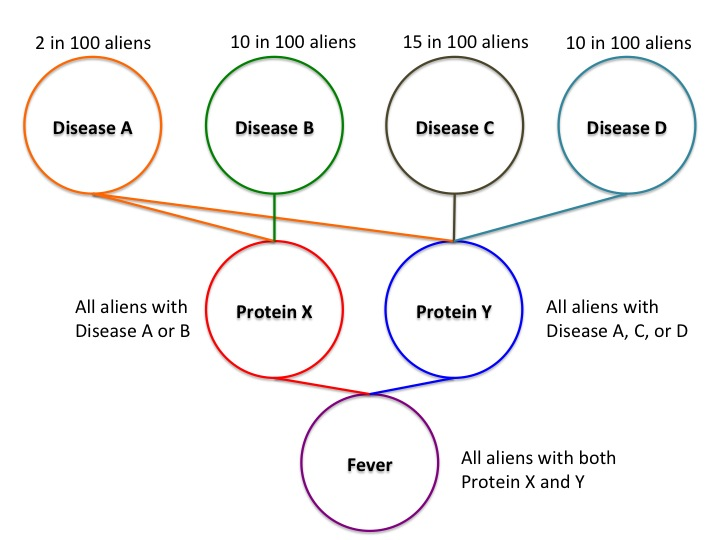
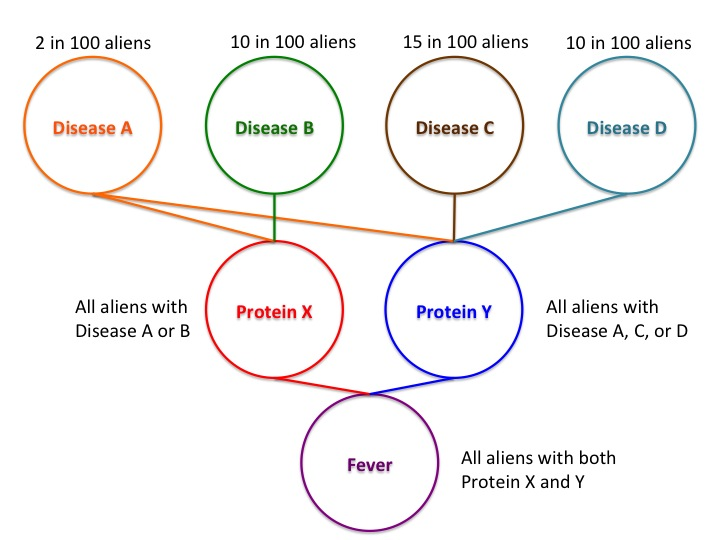
changed figure, added css ids for different specific colors

diff --git a/experiments/wednesday-expt/alien-diseases-expt.html b/experiments/wednesday-expt/alien-diseases-expt.html
@@ -86,13 +86,18 @@
         <div id="training" class="slide js">
         	<div>
 				<p class="small mtop">You are a doctor on an alien planet. You know that there are four different 
-				diseases that the aliens can have. Disease A causes abnormal proteins X and Y to be expressed 
-				in the alien's body. 2 in 100 aliens have Disease A. Disease B causes the abnormal protein 
-				X to be expressed. 10 in 100 aliens have Disease B. Diseases C and D both cause the abnormal 
-				protein Y to be expressed. 15 in 100 aliens have Disease C, and 10 in 100 aliens have Disease 
-				D. If both X and Y are expressed, the alien gets a fever. <p>
+				diseases that the aliens can have. <span id="orange">Disease A</span> causes two abnormal
+				proteins, <span id="red">Protein X</span> and <span id="blue">Protein Y</span>, 
+				to be expressed in the alien's body. 2 in 100 aliens have <span id="orange">Disease A</span>. 
+				<span id="green">Disease B</span> causes the abnormal protein <span id="red">Protein
+				X</span> to be expressed. 10 in 100 aliens have <span id="green">Disease B</span>. 
+				<span id="brown">Disease C</span> and <span id="steel-blue">Disease D</span> both cause the abnormal 
+				protein <span id="blue">Protein Y</span> to be expressed. 15 in 100 aliens 
+				have <span id="brown">Disease C</span>, and 10 in 100 aliens have <span id="steel-blue">Disease 
+				D</span>. If both <span id="red">Protein X</span> and <span id="blue">Protein Y</span> are 
+				expressed, the alien gets a <span id="purple">Fever</span>. <p>
 				
-				<img src="../_shared/css/images/alien-disease-fig.jpg" style="width: 70%; height: 65%; margin-top: 5px">
+				<img src="../_shared/css/images/alien-disease-fig.jpg" style="width: 70%; height: 65%; margin-top: 3px">
         	</div>
         	
           <br><button type="button" class="space" onclick="_s.button();">Continue</button>
@@ -102,13 +107,18 @@
         <div id="txt_box" class="slide js">
         	<div>
 				<p class="small mtop">You are a doctor on an alien planet. You know that there are four different 
-				diseases that the aliens can have. Disease A causes abnormal proteins X and Y to be expressed 
-				in the alien's body. 2 in 100 aliens have Disease A. Disease B causes the abnormal protein 
-				X to be expressed. 10 in 100 aliens have Disease B. Diseases C and D both cause the abnormal 
-				protein Y to be expressed. 15 in 100 aliens have Disease C, and 10 in 100 aliens have Disease 
-				D. If both X and Y are expressed, the alien gets a fever. <p>
+				diseases that the aliens can have. <span id="orange">Disease A</span> causes two abnormal
+				proteins, <span id="red">Protein X</span> and <span id="blue">Protein Y</span>, 
+				to be expressed in the alien's body. 2 in 100 aliens have <span id="orange">Disease A</span>. 
+				<span id="green">Disease B</span> causes the abnormal protein <span id="red">Protein
+				X</span> to be expressed. 10 in 100 aliens have <span id="green">Disease B</span>. 
+				<span id="brown">Disease C</span> and <span id="steel-blue">Disease D</span> both cause the abnormal 
+				protein <span id="blue">Protein Y</span> to be expressed. 15 in 100 aliens 
+				have <span id="brown">Disease C</span>, and 10 in 100 aliens have <span id="steel-blue">Disease 
+				D</span>. If both <span id="red">Protein X</span> and <span id="blue">Protein Y</span> are 
+				expressed, the alien gets a <span id="purple">Fever</span>. <p>
 				
-				<img src="../_shared/css/images/alien-disease-fig.jpg" style="width: 60%; height: 55%; margin-top: 5px">
+				<img src="../_shared/css/images/alien-disease-fig.jpg" style="width: 60%; height: 55%; margin-top: 3px">
 				
         		<p class="small mtop"><span class="why_question"></span><p>
         		<p>Because <input type="text" size="100" name="expl"/>.</p>
@@ -124,13 +134,18 @@
         <div id="radio_buttons" class="slide js" >
             <div>
 				<p class="small mtop">You are a doctor on an alien planet. You know that there are four different 
-				diseases that the aliens can have. Disease A causes abnormal proteins X and Y to be expressed 
-				in the alien's body. 2 in 100 aliens have Disease A. Disease B causes the abnormal protein 
-				X to be expressed. 10 in 100 aliens have Disease B. Diseases C and D both cause the abnormal 
-				protein Y to be expressed. 15 in 100 aliens have Disease C, and 10 in 100 aliens have Disease 
-				D. If both X and Y are expressed, the alien gets a fever. <p>
+				diseases that the aliens can have. <span id="orange">Disease A</span> causes two abnormal
+				proteins, <span id="red">Protein X</span> and <span id="blue">Protein Y</span>, 
+				to be expressed in the alien's body. 2 in 100 aliens have <span id="orange">Disease A</span>. 
+				<span id="green">Disease B</span> causes the abnormal protein <span id="red">Protein
+				X</span> to be expressed. 10 in 100 aliens have <span id="green">Disease B</span>. 
+				<span id="brown">Disease C</span> and <span id="steel-blue">Disease D</span> both cause the abnormal 
+				protein <span id="blue">Protein Y</span> to be expressed. 15 in 100 aliens 
+				have <span id="brown">Disease C</span>, and 10 in 100 aliens have <span id="steel-blue">Disease 
+				D</span>. If both <span id="red">Protein X</span> and <span id="blue">Protein Y</span> are 
+				expressed, the alien gets a <span id="purple">Fever</span>. <p>
 				
-				<img src="../_shared/css/images/alien-disease-fig.jpg" style="width: 60%; height: 55%; margin-top: 5px">
+				<img src="../_shared/css/images/alien-disease-fig.jpg" style="width: 60%; height: 55%; margin-top: 3px">
               
               <p id="question" class="small mtop">Please mark which of the following is a 
               <strong>better explanation</strong> of the question below.

diff --git a/experiments/wednesday-expt/js/experiment.js b/experiments/wednesday-expt/js/experiment.js
@@ -407,7 +407,8 @@ function make_slides(f) {
                 exp.data= {
                     trials : exp.data_trials,
                     system : exp.system,
-                    condition : exp.condition
+                    condition : exp.condition,
+                    subj_data : exp.subj_data
                 };
                 setTimeout(function() {turk.submit(exp.data);}, 1000);
             }
@@ -457,9 +458,7 @@ function init() {
 };
 
 function set_condition(){
-    //exp.condition={dependent:"hl_num",
-       //            bins:"lmh"
-         //         };
+    exp.condition={dependent:"expl", independent: "question"};
     var zname = get_zach_name();
     $('.zach_name').each(function(){$(this).text(zname);});
 }

diff --git a/experiments/wednesday-expt/css/local-style.css b/experiments/wednesday-expt/css/local-style.css
@@ -467,3 +467,31 @@ margin-right: 3.5em;
 margin-left: 2.7em;
 margin-right: 2.7em;
 }
+
+#orange{
+color: rgb(255,102,0);
+}
+
+#green{
+color: rgb(0,128,0);
+}
+
+#brown{
+color: rgb(110,53,0);
+}
+
+#steel-blue{
+color: rgb(49,133,156);
+}
+
+#red{
+color: rgb(255,0,0);
+}
+
+#blue{
+color: rgb(0,0,255);
+}
+
+#purple{
+color: rgb(128,0,128);
+}
